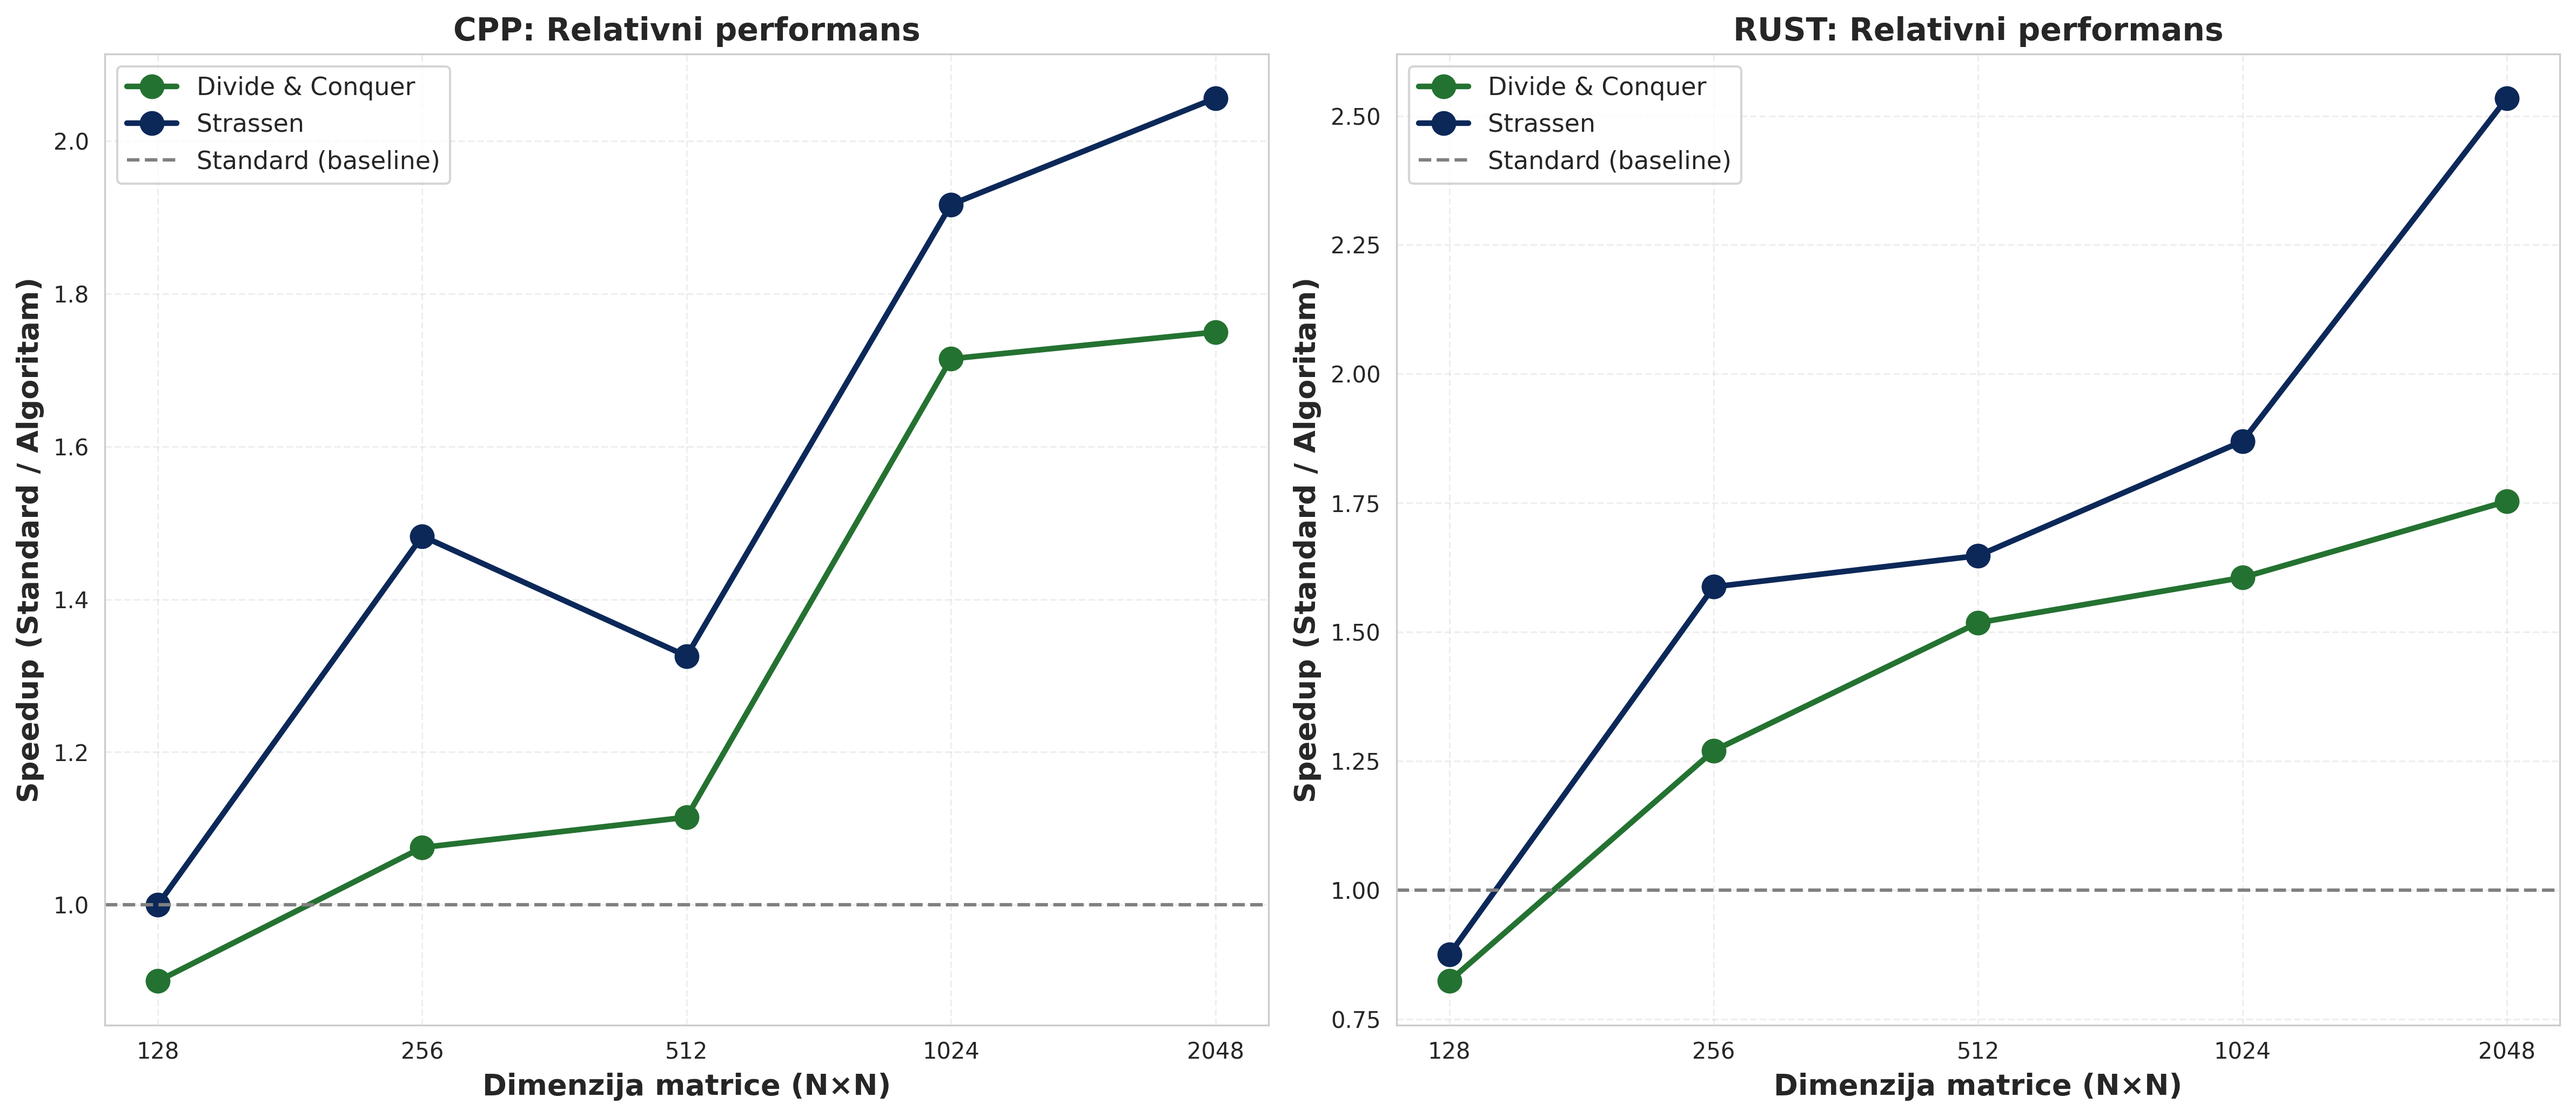
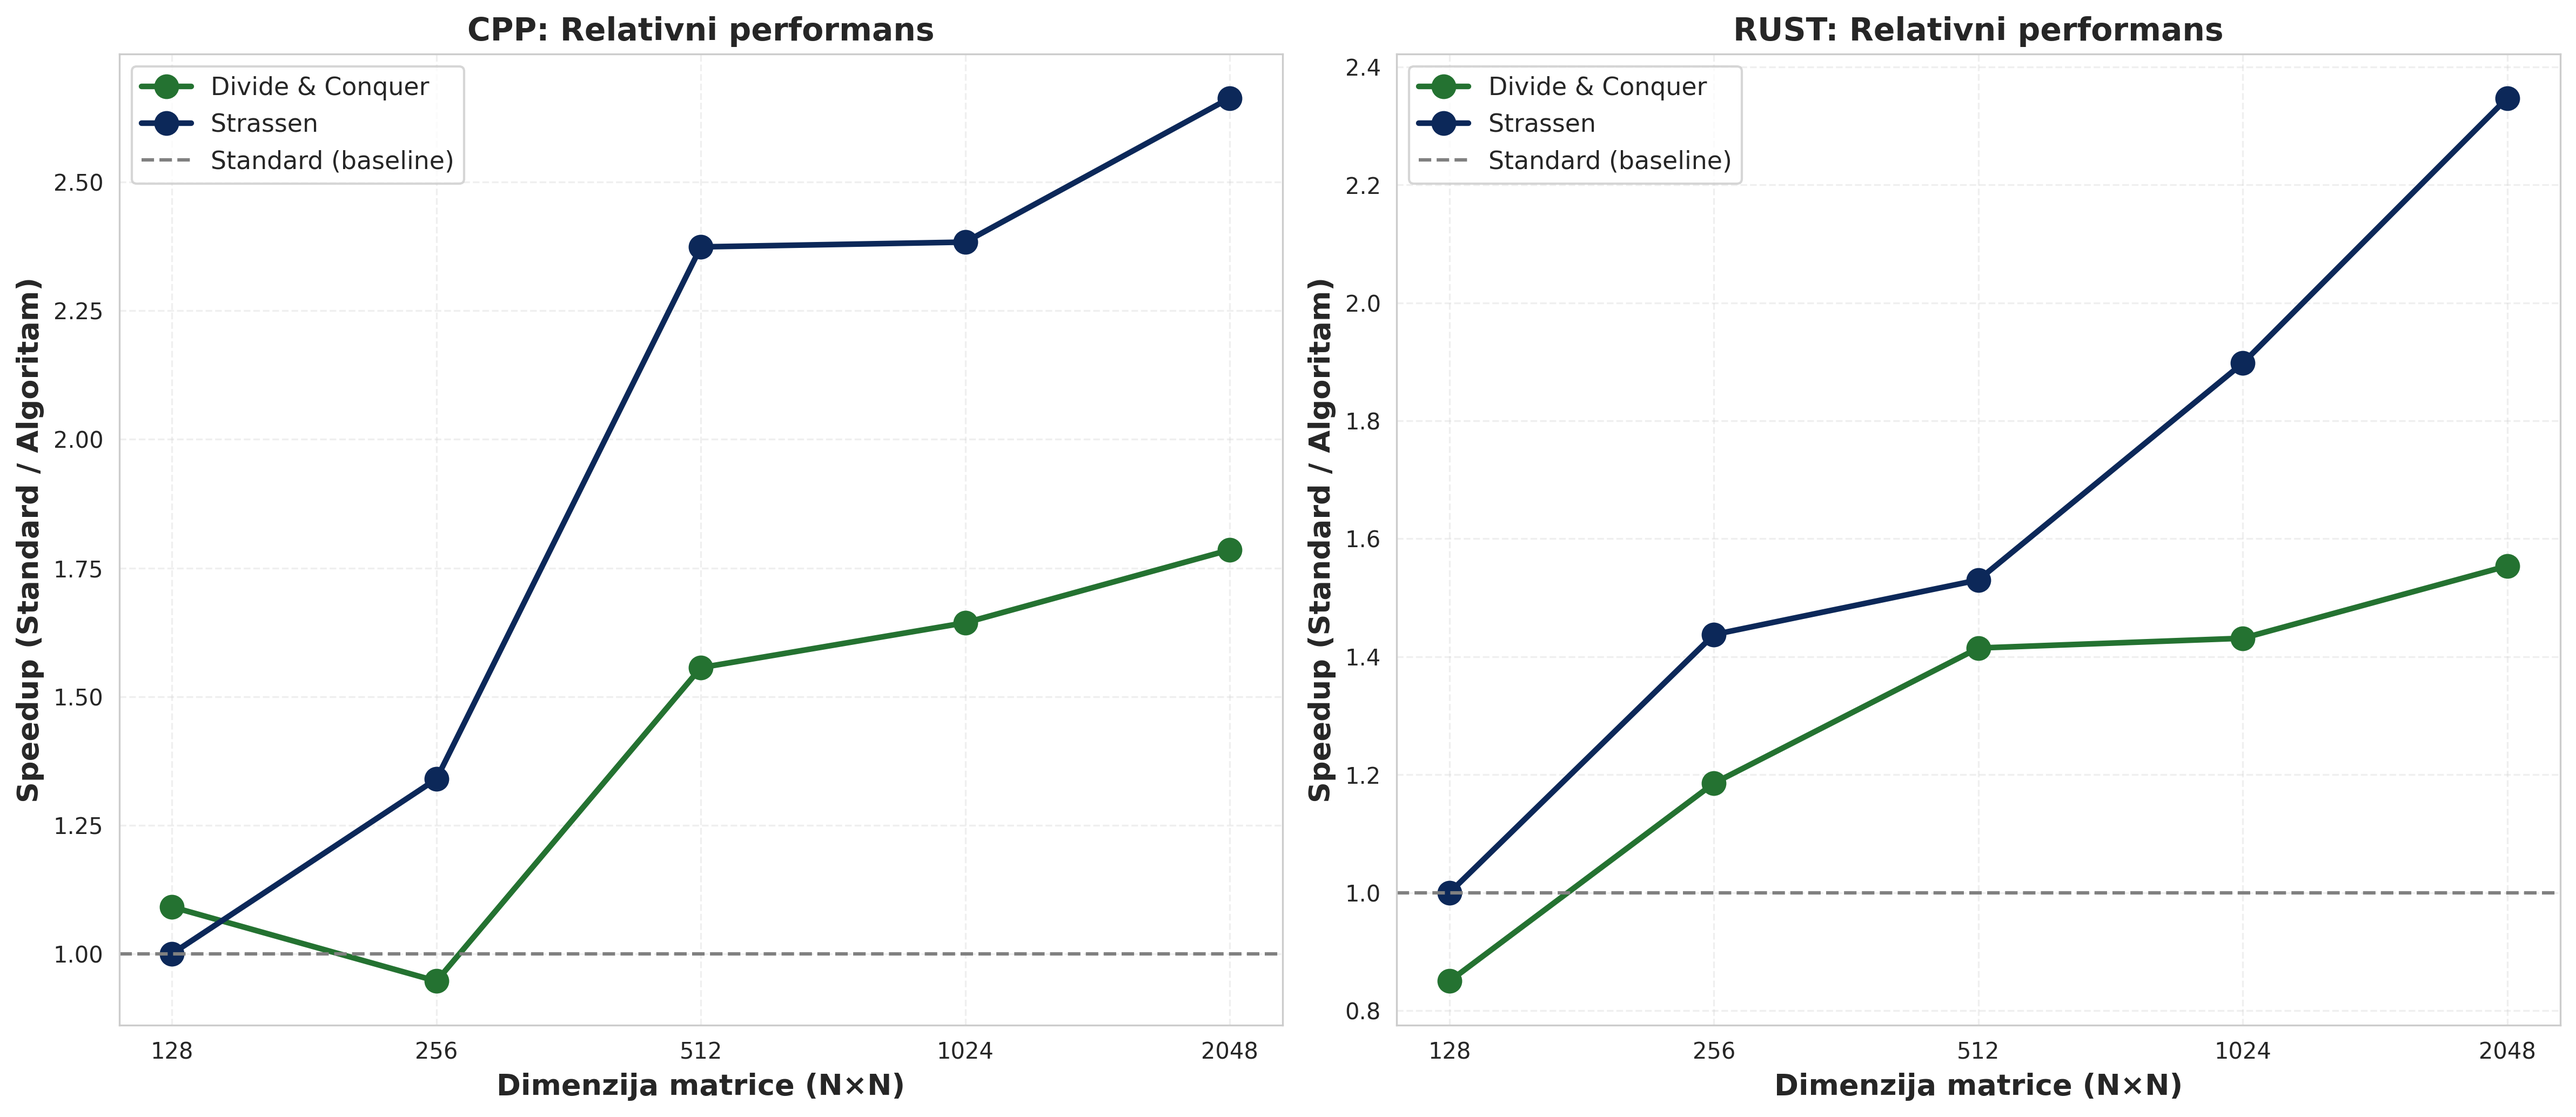
final fix

diff --git a/c++/matrix.cpp b/c++/matrix.cpp
@@ -137,13 +137,21 @@ Matrix strassen(const Matrix& A, const Matrix& B) {
     auto B21 = view(B, h, 0, h);
     auto B22 = view(B, h, h, h);
 
-    auto M1 = strassen(add(A11, A22), add(B11, B22));
-    auto M2 = strassen(add(A21, A22), B11);
-    auto M3 = strassen(A11, sub(B12, B22));
-    auto M4 = strassen(A22, sub(B21, B11));
-    auto M5 = strassen(add(A11, A12), B22);
-    auto M6 = strassen(sub(A21, A11), add(B11, B12));
-    auto M7 = strassen(sub(A12, A22), add(B21, B22));
+    auto f1 = std::async(std::launch::async, strassen, add(A11, A22), add(B11, B22));
+    auto f2 = std::async(std::launch::async, strassen, add(A21, A22), B11);
+    auto f3 = std::async(std::launch::async, strassen, A11, sub(B12, B22));
+    auto f4 = std::async(std::launch::async, strassen, A22, sub(B21, B11));
+    auto f5 = std::async(std::launch::async, strassen, add(A11, A12), B22);
+    auto f6 = std::async(std::launch::async, strassen, sub(A21, A11), add(B11, B12));
+    auto f7 = std::async(std::launch::async, strassen, sub(A12, A22), add(B21, B22));
+
+    Matrix M1 = f1.get();
+    Matrix M2 = f2.get();
+    Matrix M3 = f3.get();
+    Matrix M4 = f4.get();
+    Matrix M5 = f5.get();
+    Matrix M6 = f6.get();
+    Matrix M7 = f7.get();
 
     Matrix C(A.n);
     for (size_t i = 0; i < h; ++i)
